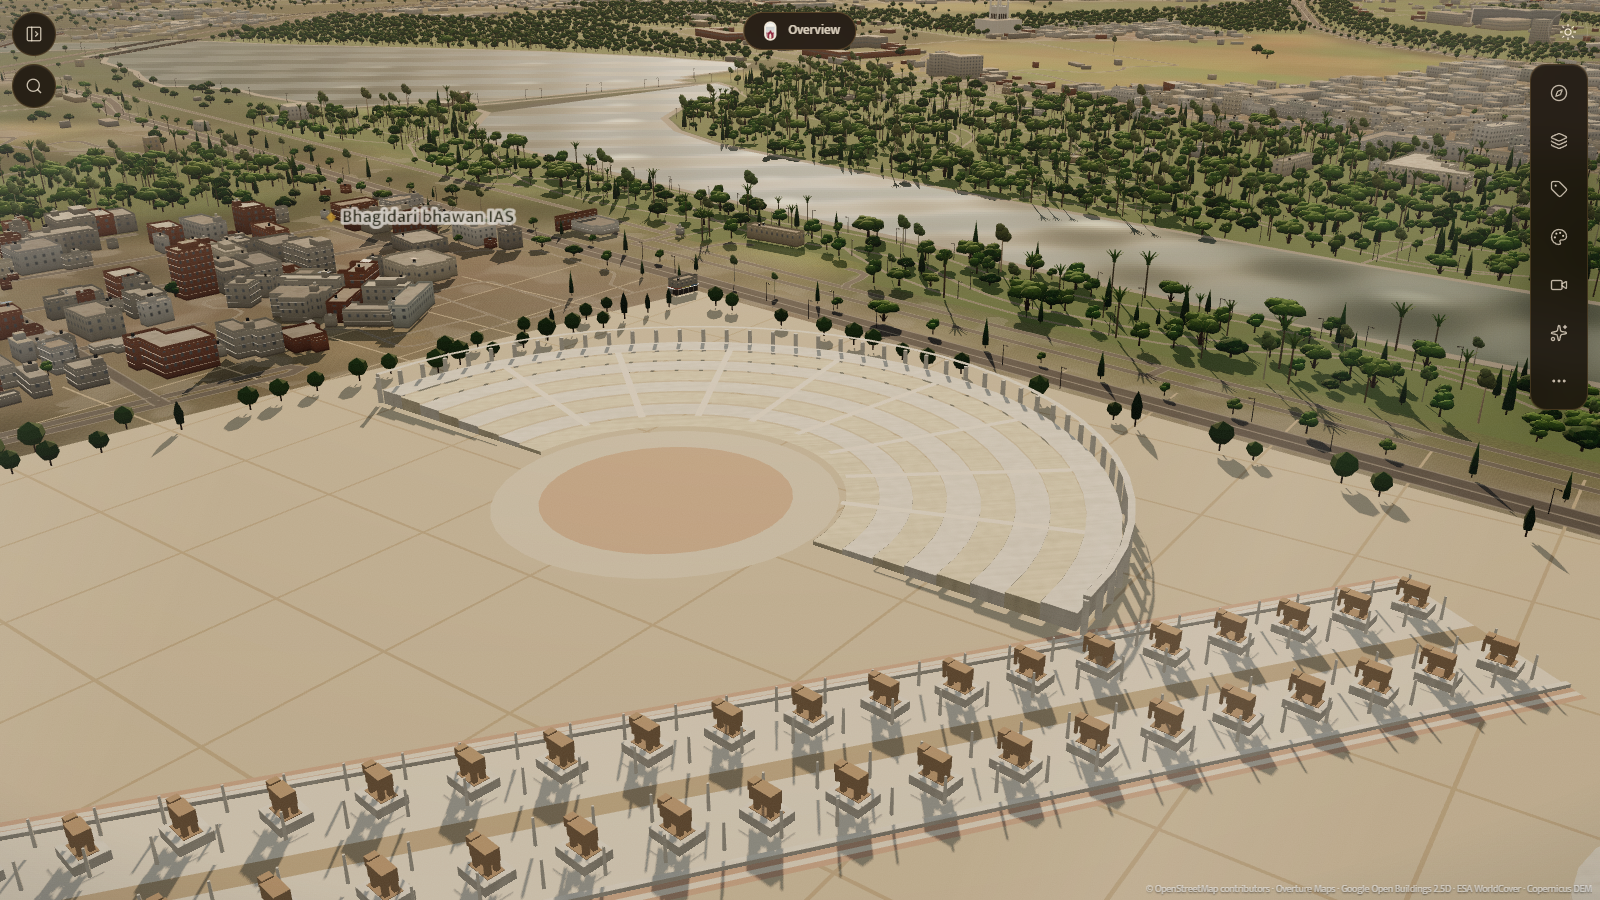
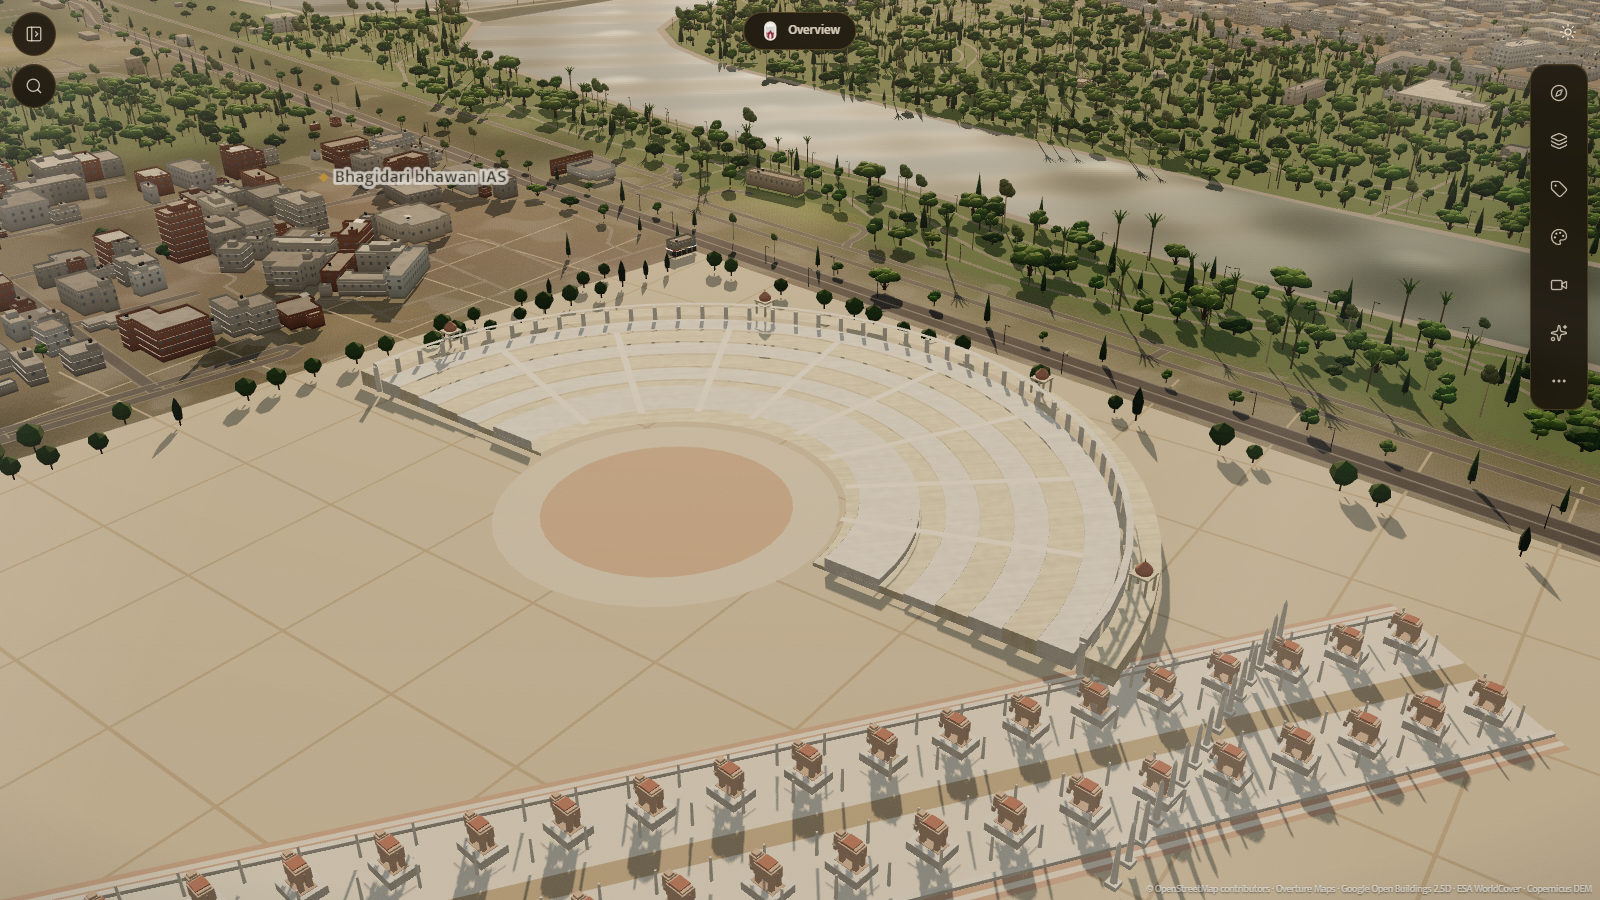
feat(3d): Ambedkar finishing pass - detailed elephants, sculpted platform, amphitheatre wall and kiosks, pillar rows; more references archived

diff --git a/src/city/landmarks.ts b/src/city/landmarks.ts
@@ -171,7 +171,7 @@ class Kit {
 const C = {
   paveSand: 0xc9b99a, paveRed: 0xa86a52, paveGrey: 0xaaa59a, path: 0xbcae92, lawn: 0x5d7a3e, lawnDry: 0x7a8048,
   hedge: 0x34502a, bed: 0x6a4e34, water: 0x2f4a4f, waterDeep: 0x24393d, crown: 0x3f5a2c, crownDark: 0x2b4422,
-  trunk: 0x4a3a2c, bronze: 0x6b5a45, stoneEle: 0xb79a7c, steelRed: 0xb5402e, steelWhite: 0xd9d6cf, asphalt: 0x4c4c4c,
+  trunk: 0x4a3a2c, bronze: 0x6b5a45, stoneEle: 0xd2b6a0, steelRed: 0xb5402e, steelWhite: 0xd9d6cf, asphalt: 0x4c4c4c,
   runway: 0x3e3f40, mark: 0xe8e6df, markYellow: 0xd7b33c, grassAir: 0x7f8650, apron: 0x9a9890,
 };
 
@@ -261,14 +261,31 @@ class Grounds {
     try { faces = THREE.ShapeUtils.triangulateShape(r.map(([x, z]) => new THREE.Vector2(x, z)), []); } catch { return; }
     for (const f of faces) this.up([r[f[0]][0], y, r[f[0]][1]], [r[f[1]][0], y, r[f[1]][1]], [r[f[2]][0], y, r[f[2]][1]]);
   }
-  /** Simple elephant statue (body, legs, head, trunk) facing +u. */
+  /** Elephant statue facing +u (faceU = 1) or -u (-1): barrel body, four legs, domed head,
+   *  ears, tusks, a two-segment trunk curling down, tail and a blanket on the back. */
   elephant(u: number, v: number, y: number, s: number, faceU: number) {
-    this.color(C.stoneEle);
     const f = faceU;
-    this.box(u - 1.5 * s, u + 1.5 * s, y + 1.3 * s, y + 3.0 * s, v - 0.9 * s, v + 0.9 * s);
-    for (const du of [-1.1, 1.0]) for (const dv of [-0.55, 0.55]) this.box(u + du * s - 0.3 * s, u + du * s + 0.3 * s, y, y + 1.4 * s, v + dv * s - 0.3 * s, v + dv * s + 0.3 * s);
-    this.box(u + f * 1.5 * s - 0.1 * s, u + f * 2.4 * s, y + 2.0 * s, y + 3.2 * s, v - 0.65 * s, v + 0.65 * s);
-    this.box(u + f * 2.3 * s, u + f * 2.65 * s, y + 0.4 * s, y + 2.3 * s, v - 0.18 * s, v + 0.18 * s);
+    this.color(C.stoneEle);
+    this.box(u - 1.5 * s, u + 1.4 * s, y + 1.4 * s, y + 3.0 * s, v - 0.95 * s, v + 0.95 * s);          // body
+    this.box(u - 1.3 * s, u + 1.2 * s, y + 3.0 * s, y + 3.25 * s, v - 0.8 * s, v + 0.8 * s);           // back
+    for (const du of [-1.1, 1.0]) for (const dv of [-0.55, 0.55]) this.box(u + du * s - 0.3 * s, u + du * s + 0.3 * s, y, y + 1.45 * s, v + dv * s - 0.3 * s, v + dv * s + 0.3 * s);
+    // head with a domed forehead
+    this.box(u + f * 1.3 * s - 0.05 * s, u + f * 2.35 * s, y + 1.9 * s, y + 3.4 * s, v - 0.62 * s, v + 0.62 * s);
+    this.box(u + f * 1.55 * s - 0.2 * s, u + f * 2.2 * s, y + 3.4 * s, y + 3.75 * s, v - 0.42 * s, v + 0.42 * s);
+    // ears
+    for (const dv of [-1, 1]) this.box(u + f * 1.2 * s - 0.4 * s, u + f * 1.2 * s + 0.4 * s, y + 2.0 * s, y + 3.3 * s, v + dv * 0.75 * s - 0.06 * s, v + dv * 0.75 * s + 0.06 * s);
+    // trunk: two segments curling down and forward
+    this.color(C.stoneEle, -0.06);
+    this.box(u + f * 2.2 * s - 0.01, u + f * 2.55 * s, y + 1.1 * s, y + 2.5 * s, v - 0.2 * s, v + 0.2 * s);
+    this.box(u + f * 2.35 * s, u + f * 2.8 * s, y + 0.45 * s, y + 1.2 * s, v - 0.16 * s, v + 0.16 * s);
+    // tusks
+    this.color(0xe8e0d0);
+    for (const dv of [-1, 1]) this.box(u + f * 2.2 * s - 0.01, u + f * 2.75 * s, y + 1.35 * s, y + 1.55 * s, v + dv * 0.38 * s - 0.05 * s, v + dv * 0.38 * s + 0.05 * s);
+    // tail and a pink ceremonial blanket
+    this.color(C.stoneEle, -0.1);
+    this.box(u - f * 1.55 * s, u - f * 1.7 * s, y + 0.9 * s, y + 2.7 * s, v - 0.07 * s, v + 0.07 * s);
+    this.color(0xb77f6d);
+    this.box(u - 0.9 * s, u + 0.9 * s, y + 3.25 * s, y + 3.4 * s, v - 0.85 * s, v + 0.85 * s);
     this.color(C.stoneEle, -0.1).box(u - 1.8 * s, u + 1.8 * s, y - 0.01, y + 0.08 * s, v - 1.1 * s, v + 1.1 * s);
   }
 }
@@ -478,11 +495,16 @@ function ambedkarMemorial(k: Kit, g: Grounds, s: LandmarkSite): void {
       const ring2: number[][] = [];
       for (let t = 0; t < 28; t++) { const q = (t / 28) * Math.PI * 2; const w = k.w([lu + Math.cos(q) * R * 0.52, 0, lv + Math.sin(q) * R * 0.52]); ring2.push([w[0], w[2]]); }
       k.extrudeWorldRing(ring2, 0, 3.2, S.LIME, S.LIME);
-      for (let st = 0; st < 3; st++) {
-        const r3: number[][] = [];
-        for (let t = 0; t < 28; t++) { const q = (t / 28) * Math.PI * 2; const w = k.w([lu + Math.cos(q) * R * (0.45 - st * 0.12), 0, lv + Math.sin(q) * R * (0.45 - st * 0.12)]); r3.push([w[0], w[2]]); }
-        g.color(st % 2 ? WHITE : PINK).polyWorld(r3, 3.25 + st * 0.05);
+      // White sculpted surface with a pink inlaid band and a raised rim (no concentric rings).
+      const r3: number[][] = [], r4: number[][] = [];
+      for (let t = 0; t < 28; t++) {
+        const q = (t / 28) * Math.PI * 2;
+        const w = k.w([lu + Math.cos(q) * R * 0.5, 0, lv + Math.sin(q) * R * 0.5]); r3.push([w[0], w[2]]);
+        const w2 = k.w([lu + Math.cos(q) * R * 0.36, 0, lv + Math.sin(q) * R * 0.36]); r4.push([w2[0], w2[2]]);
       }
+      g.color(WHITE).polyWorld(r3, 3.25);
+      g.color(PINK).polyWorld(r4, 3.3);
+      for (const sg of [-1, 1]) k.box(lu - R * 0.28, lu + R * 0.28, 3.3, 4.1, lv + sg * R * 0.1 - 0.5, lv + sg * R * 0.1 + 0.5, S.LIME);
     }
     k.box(cu - 9, cu + 9, 0, 4, cv - 9, cv + 9, S.LIME);
     k.cylinder(cu, cv, 5.5, 5.5, 4, 8, 20, S.LIME);
@@ -495,6 +517,9 @@ function ambedkarMemorial(k: Kit, g: Grounds, s: LandmarkSite): void {
     const [u, v] = P(fx, fy);
     const r = R2 * W;
     k.box(u - r * 1.9, u + r * 1.9, 0, 5, v - r * 1.9, v + r * 1.9, S.LIME);
+    k.arcadeAll(u - r * 1.9, u + r * 1.9, v - r * 1.9, v + r * 1.9, 0.5, 3.2, 4, 7, S.GLASS);
+    k.merlons(u - r * 1.9, u + r * 1.9, v - r * 1.9, v + r * 1.9, 5, S.LIME);
+    for (const du of [-1, 1]) for (const dv of [-1, 1]) k.chhatri(u + du * r * 1.9, v + dv * r * 1.9, 3.2, 5, S.LIME);
     k.cylinder(u, v, r, r, 5, 9, 28, S.LIME);
     k.hemi(u, v, r * 0.98, 9, S.LIME, 0.8);
     k.cylinder(u, v, 1.1, 0.3, 9 + r * 0.78, 9 + r * 0.78 + 3.5, 8, S.GILT);
@@ -536,6 +561,14 @@ function ambedkarMemorial(k: Kit, g: Grounds, s: LandmarkSite): void {
       if (inside(u, v)) k.cylinder(u, v, 0.9, 0.8, 0, 9.5, 8, S.LIME);
     }
     k.extrudeWorldRing(sector(R + 3, R + 1), 9.5, 10.6, S.LIME, S.LIME);
+    // Heavy outer wall ring (pink sandstone) with four kiosks on its crown, and an inner
+    // raised semicircular seating bowl around the stage, after the dusk drone reference.
+    k.extrudeWorldRing(sector(R + 11, R + 3), 0, 5.5, S.STONE, S.STONE);
+    for (const t of [0.08, 0.36, 0.64, 0.92]) {
+      const a = Math.PI * 0.5 + t * Math.PI, p = arcPt(R + 7, a), [u, v] = k.local(p[0], p[1]);
+      k.chhatri(u, v, 4.6, 5.5, S.REDSTONE);
+    }
+    k.extrudeWorldRing(sector(rStage * 1.9, rStage * 1.45), 0, 4.2, S.LIME, S.LIME);
   }
 
   // 7. Elephant avenue: 62 elephants (2 x 31, documented) on pedestals along a long diagonal
@@ -573,6 +606,26 @@ function ambedkarMemorial(k: Kit, g: Grounds, s: LandmarkSite): void {
         if (!inside(u, v)) continue;
         k.cylinder(u, v, 0.4, 0.28, 0, 6.5, 6, S.LIME);
       }
+    }
+  }
+
+  // 7b. Rows of memorial pillars (obelisks) on both sides of the central court and a long
+  //     colonnaded gallery on the north edge, as in the references.
+  for (const [fx0, fx1, fy] of [[0.40, 0.66, 0.325], [0.40, 0.66, 0.475], [0.17, 0.30, 0.43]] as Array<[number, number, number]>) {
+    for (let i = 0; i <= 14; i++) {
+      const [u, v] = P(fx0 + (fx1 - fx0) * (i / 14), fy);
+      if (!inside(u, v)) continue;
+      k.box(u - 1.3, u + 1.3, 0, 1.2, v - 1.3, v + 1.3, S.LIME);
+      k.lathe(u, v, [[0.85, 1.2], [0.5, 11], [0, 12.2]], 6, S.LIME, 0);
+    }
+  }
+  {
+    const [gu0, gv0] = P(0.46, 0.035), [gu1, gv1] = P(0.80, 0.035);
+    const gw = (u: number, v: number): number[] => { const q = k.w([u, 0, v]); return [q[0], q[2]]; };
+    const pts = [gw(gu0, gv0), gw(gu1, gv1), gw(gu1, gv1 + 14), gw(gu0, gv0 + 14)];
+    if (inside(gu0, gv0 + 7) && inside(gu1, gv1 + 7)) {
+      k.extrudeWorldRing(pts, 0, 7.5, S.LIME, S.LIME);
+      for (let i = 0; i <= 40; i++) { const u = gu0 + (gu1 - gu0) * (i / 40), v = gv0 + (gv1 - gv0) * (i / 40); k.cylinder(u, v + 14.6, 0.6, 0.55, 0, 7.5, 6, S.LIME); }
     }
   }
 

diff --git a/docs/3d-revamp/ROUND_3_REPORT.md b/docs/3d-revamp/ROUND_3_REPORT.md
@@ -129,3 +129,8 @@ Changes are in `buildingMaterial.ts` and `roadMaterial.ts`. Checked in `night_ha
 - **Amphitheatre:** eight stepped annular tiers rising toward the outer arc (alternating plaster tones), radial aisles, a low stage disc, and a 47-column colonnade with an entablature on the outer arc. Built in world axes so the arc faces west and the flat edge faces east, as in the references.
 - **Avenue:** the 62 elephants (2 x 31, the documented count) now stand on larger pedestals along a long diagonal band with low parapets, shallow steps on both sides, a centre lane and four rows of lamp columns (extra to the 62).
 - **Still not right:** the elephants are the same simple blocky statue; the real avenue is longer and denser than 62 statues at this spacing suggest, so the extra "marks" in the references are not reproduced beyond the lamp columns; the amphitheatre's tiers are smooth steps without seat rows or columns inside; proportions are by eye. Screenshots `ambedkar_top.png`, `amb_avenue.png`, `amb_amphi.png`. Night lighting not reviewed.
+
+## Update: Ambedkar finishing pass and new references
+- **References archived:** the two Ambedkar views, plus the Bara Imambara and Chhota Imambara/Picture Gallery top-down views, are copied to `references/round-3/parks/` and `husainabad/` and listed in the manifest. The latest dusk drone shot of Ambedkar was only sent in chat with no file on disk, so it is described in the manifest but not copied.
+- **Changes:** a more detailed elephant statue (domed head, ears, two-part trunk, tusks, tail, blanket) in pale pink sandstone instead of brown; the four-lobed platform is now white lobes with a pink inlay and rim (no concentric rings); the domed halls have arcaded walls, corner kiosks and a drum; rows of memorial pillars and a colonnaded north gallery; the amphitheatre gained a heavy outer wall ring with four corner kiosks and an inner raised seating bowl.
+- **Still not matching the references:** at night the paved plazas stay dark because ground colours are not emissive (only the structures catch the amber floodlight), whereas the real site is lit across its plazas; the avenue is still a regular two-row strip (the real one has far more repeated pillars and is aligned along the amphitheatre's flat edge); the wall ring is barely distinguishable from the tiers at normal altitude; fine paving patterns are absent. All positions are by eye.

diff --git a/docs/3d-revamp/references/round-3/REFERENCE_MANIFEST.md b/docs/3d-revamp/references/round-3/REFERENCE_MANIFEST.md
@@ -14,4 +14,10 @@ Originals remain untouched in the repo root. Copies are organised below. All are
 | vidhan sabha.png | special-buildings/ | Uttar Pradesh Vidhan Bhavan | Drone oblique (video frame) | Cream/buff stone, large gilded central dome with lantern, long curved colonnaded wings around a semicircular lawn and red-paved forecourt, flat white roofs on rear blocks | Vidhan Sabha model; curved wings and dome colour | High |
 | pheonix pallasio mall.png | special-buildings/ | Phoenix Palassio mall (Amar Shaheed Path) | Drone oblique (video frame) | Long cream facade with colonnade, maroon domed corner turrets, cylindrical entrance drum, rooftop plant | Optional commercial landmark | High |
 
+| parks/ambedkar_oblique_aerial_2.png | parks/ | Ambedkar Memorial | Drone oblique, whole site | Pentagon-shaped all-paved plot; four-lobed platform with stupa; circular plazas; semicircular amphitheatre; elephant avenue; domed halls | Ambedkar layout | High |
+| parks/ambedkar_topdown_map.webp | parks/ | Ambedkar Memorial | Top-down map view (Google; composition reference only, not traced) | Plan arrangement of platform, plazas, avenue, amphitheatre, domes, triangular pool | Ambedkar layout | High |
+| husainabad/bara_imambara_topdown.webp | husainabad/ | Bara Imambara complex | Satellite top-down, unidentified provider (treat as qualitative) | Forecourts, triple gates, circular lawn court, parterre garden, Asafi Masjid with three domes, baoli | Husainabad refinement (next) | High |
+| husainabad/chota_imambara_picture_gallery_topdown.webp | husainabad/ | Chhota Imambara and Picture Gallery | Satellite top-down (Google; qualitative only) | Chhota Imambara garden with long channels, open ground, Picture Gallery beside the octagonal-edged lawn (the Husainabad pond/tank) | Husainabad refinement (next) | High |
+| (not on disk) | n/a | Ambedkar Memorial | Dusk drone shot supplied in chat, no file copy available | Large semicircular amphitheatre with a heavy outer wall ring, inner smaller seating semicircle and four corner kiosks; two long rows of statue pedestals on a grid just beyond its flat edge; cloverleaf platform, square-outline court, circular mandala plaza at the far end | Amphitheatre and avenue | High |
+
 Not yet supplied: transport (no track or platform photos), heritage-district, special-building (Dariya Wali Masjid) references.
